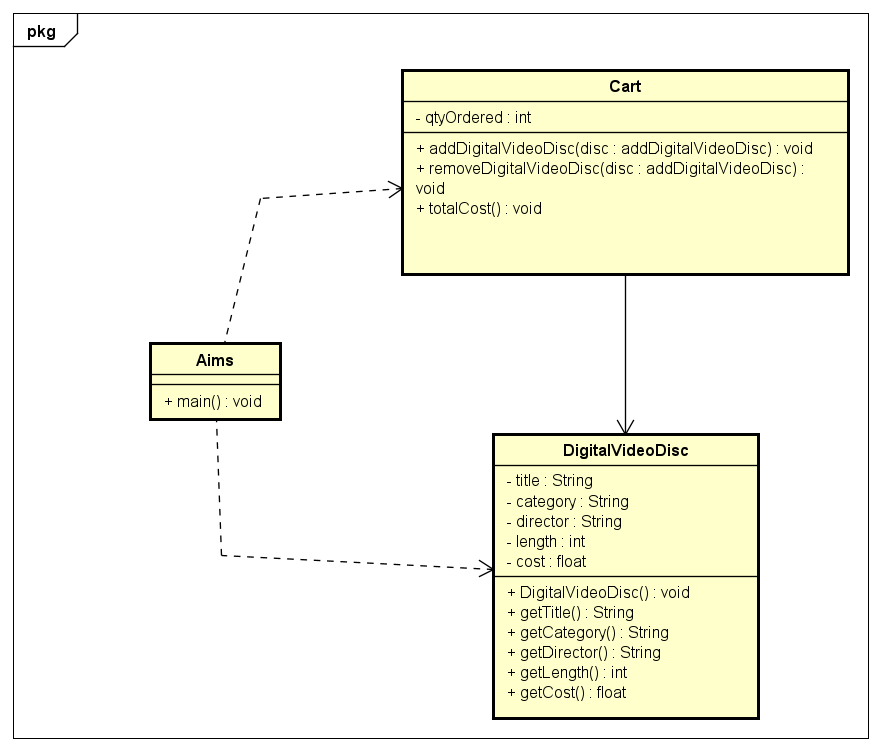
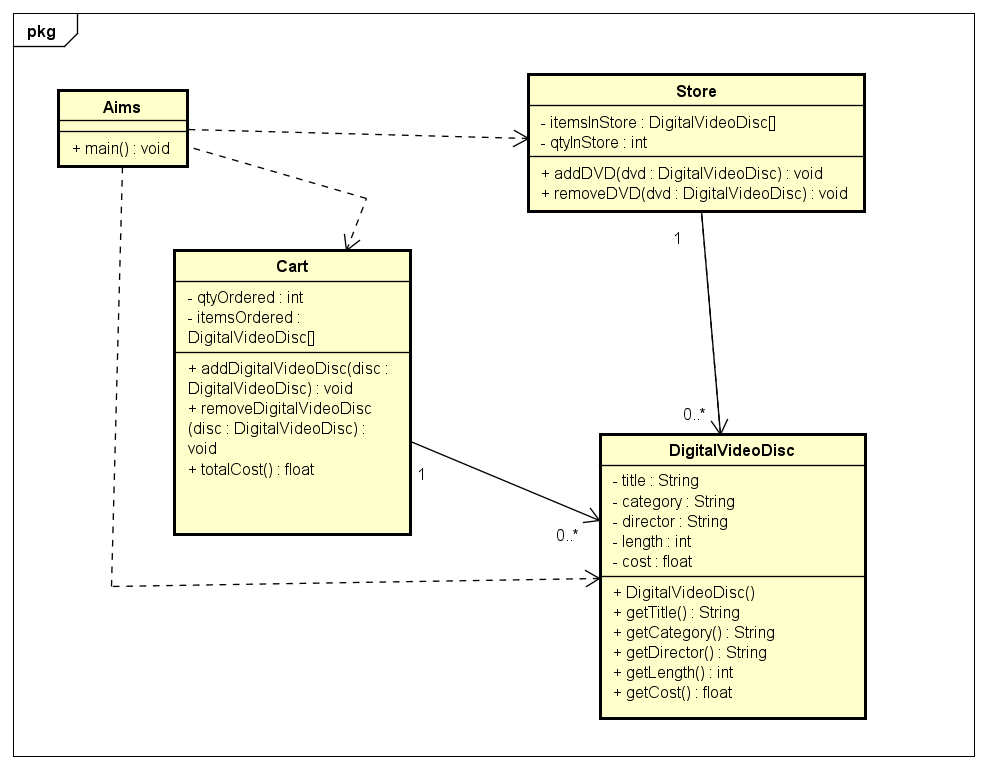
Finish Lab03

diff --git a/AimsProject/src/hust/soict/globalict/aims/cart/Cart.java b/AimsProject/src/hust/soict/globalict/aims/cart/Cart.java
@@ -3,7 +3,7 @@ import hust.soict.globalict.aims.disc.DigitalVideoDisc;
 
 public class Cart {
     public static final int MAX_NUMBERS_ORDERED = 20;
-    private DigitalVideoDisc itemsOrdered[] = new DigitalVideoDisc[MAX_NUMBERS_ORDERED];
+    private DigitalVideoDisc[] itemsOrdered = new DigitalVideoDisc[MAX_NUMBERS_ORDERED];
     private int realOrdered = 0;
 
     public void addDigitalVideoDisc(DigitalVideoDisc disc) {